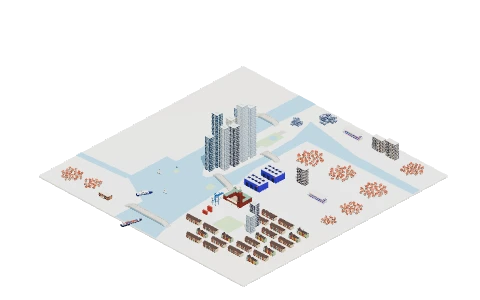
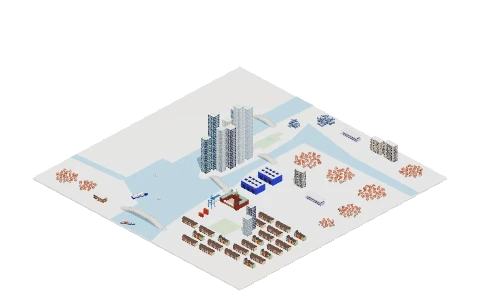
feat: NYC 311's harbour and bridges as the owner reshaped them
- Governors and Liberty Islands taken out, and Liberty's flag with them
- The George Washington, Queensboro and Verrazzano bridges' decks reshaped (the Verrazzano's higher in the middle)
- The ferry's route reshaped; the shipping lane a loop in through the Narrows, round the upper bay and back out, for a shorter container ship; a sailing boat moved
- Starter pictures and link preview made again

diff --git a/src/templates/nyc311.ts b/src/templates/nyc311.ts
@@ -227,23 +227,6 @@ const LAND_AND_WATER: TAreaInput[] = [
 	{ id: "central_park", kind: "grass_01", name: "Central Park", points: CENTRAL_PARK },
 	{ id: "reservoir", kind: "water_01", name: "The Reservoir", points: rect(-12, -28, -9, -25) },
 	{ id: "prospect_park", kind: "grass_01", name: "Prospect Park", points: PROSPECT_PARK },
-	{
-		id: "governors_island",
-		kind: "grass_01",
-		name: "Governors Island",
-		points: [
-			[-5, 13],
-			[-2, 13],
-			[-1, 16],
-			[-4, 17],
-		],
-	},
-	{
-		id: "liberty_island",
-		kind: "grass_01",
-		name: "Liberty Island",
-		points: rect(-21, 15, -19, 17),
-	},
 ];
 
 const AREAS: TAreaInput[] = [
@@ -427,8 +410,6 @@ const ENTITIES: TEntityInput[] = [
 	landmark("staten_island_school", "school_01", [-26, 48], "Staten Island"),
 	cluster("si_homes_1", "house_cluster_01", [-46, 46], 10, 43),
 	cluster("si_homes_2", "house_cluster_01", [-36, 45], 8, 47),
-	// Liberty Island's flag, for the statue.
-	thing("liberty_flag", "flagpole_01", [-20, 16]),
 	// On the water: the Staten Island Ferry, a container ship through the Narrows, sailing boats.
 	{
 		id: "staten_island_ferry",
@@ -438,11 +419,11 @@ const ENTITIES: TEntityInput[] = [
 	{
 		id: "container_ship",
 		kind: "cargo_ship_01",
-		props: { length: 9 },
+		props: { length: 5.5 },
 		follow: { roadId: "shipping_lane", speed: 1, startDistance: 0 },
 	},
 	thing("sailing_boat_1", "sailing_boat_01", [-23, 22], {}, 30),
-	thing("sailing_boat_2", "sailing_boat_01", [-12, 30], {}, 200),
+	thing("sailing_boat_2", "sailing_boat_01", [-10.5, 32.5], {}, 200),
 ];
 
 /** A raised road across water, with its traffic: a flow of cars driving it both ways. */
@@ -463,20 +444,20 @@ const ROADS: TRoadInput[] = [
 	]),
 	bridge("queensboro_bridge", "Queensboro Bridge", [
 		[-6.5, -16, 0],
-		[-4, -16, 1.1],
-		[0, -16, 1.1],
+		[-3.011, -16, 1.1],
+		[-0.98, -16, 1.1],
 		[3, -16, 0],
 	]),
 	bridge("george_washington_bridge", "George Washington Bridge", [
 		[-15.5, -34, 0],
-		[-17.5, -34, 1.1],
+		[-20, -34, 1.1],
 		[-23, -34, 1.1],
 		[-27, -34, 0],
 	]),
 	bridge("verrazzano_bridge", "Verrazzano-Narrows Bridge", [
-		[6, 46, 0],
-		[3, 46, 1.1],
-		[-13, 46, 1.1],
+		[6.5, 46, 0],
+		[-2, 46, 2.038],
+		[-8, 46, 2.038],
 		[-17, 46, 0],
 	]),
 	{
@@ -495,7 +476,7 @@ const ROADS: TRoadInput[] = [
 		name: "Staten Island Ferry",
 		points: [
 			[-17, 36],
-			[-10, 24],
+			[-12.166, 23.522],
 			[-9, 13],
 		],
 	},
@@ -503,11 +484,20 @@ const ROADS: TRoadInput[] = [
 		id: "shipping_lane",
 		kind: "hidden_route_01",
 		name: "Shipping lane",
+		// A loop in through the Narrows, round the upper bay and back out.
+		loops: true,
 		points: [
-			[-6, 54],
-			[-2, 40],
-			[-6, 26],
-			[-14, 14],
+			[-5.451, 52.312],
+			[-4.5, 49],
+			[-4.448, 41.959],
+			[-1, 23],
+			[-2, 18],
+			[-5.5, 17],
+			[-6.5, 19],
+			[-6.222, 47.574],
+			[-10, 49.5],
+			[-11, 52.5],
+			[-7.5, 53.5],
 		],
 	},
 ];
